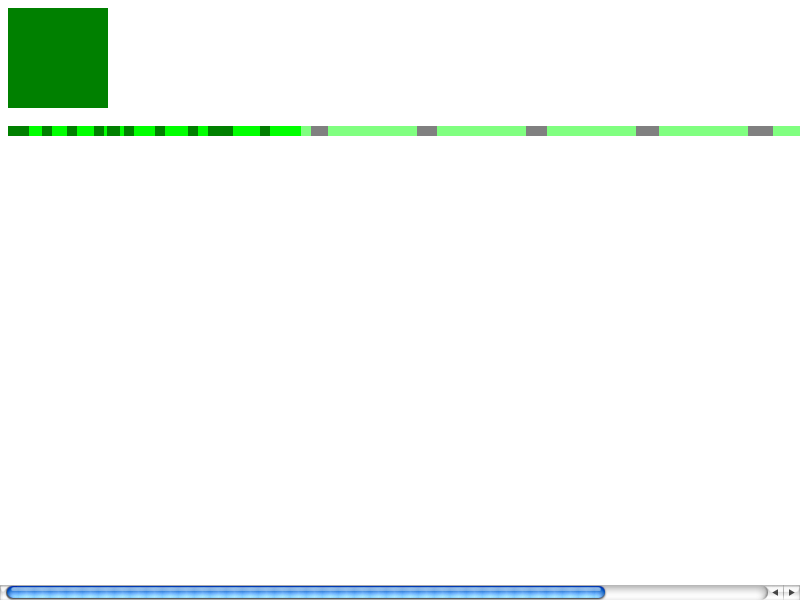
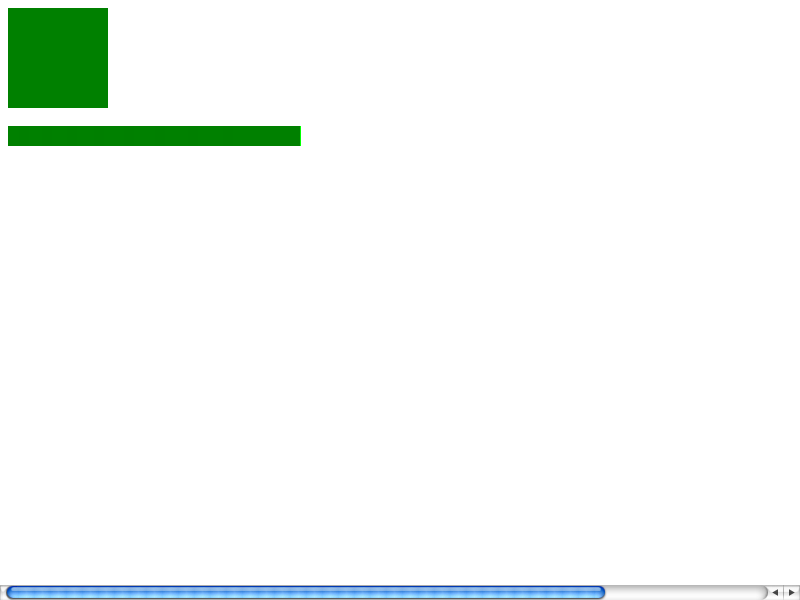
2007-04-27  Mitz Pettel  <mitz@webkit.org>
Reviewed by Antti.

        - http://bugs.webkit.org/show_bug.cgi?id=13521
          Update fast/css/percentage-non-integer for the new empty table cell behavior

        * fast/css/percentage-non-integer-expected.checksum:
        * fast/css/percentage-non-integer-expected.png:
        * fast/css/percentage-non-integer-expected.txt:
        * fast/css/percentage-non-integer.html:

git-svn-id: https://svn.webkit.org/repository/webkit/trunk@21163 268f45cc-cd09-0410-ab3c-d52691b4dbfc

Changed region(s): [[0.0, 0.21, 1.0, 0.27]]

diff --git a/LayoutTests/fast/css/percentage-non-integer.html b/LayoutTests/fast/css/percentage-non-integer.html
@@ -41,7 +41,7 @@
     <br>
     <div style="position: relative;">
         <table style="position: absolute; top: 0; left: 0; " cellpadding="0" cellspacing="0">
-            <tr style="height: 10px;">
+            <tr style="height: 20px;">
                 <td class="red" style="width: 11px;"></td>
                 <td class="black sep"></td>
                 <td class="red" style="width: 13px;"></td>
@@ -65,27 +65,27 @@
             </tr>
         </table>
         <table style="position: absolute; top: 0; left: 0; width: 1000px;" cellpadding="0" cellspacing="0">
-            <tr style="height: 10px;">
-                <td class="blackOverlay" style="width: 1.2%;"></td>
+            <tr style="height: 20px;">
+                <td class="blackOverlay" style="width: 1.2%;">&nbsp;</td>
+                <td class="greenOverlay sep">&nbsp;</td>
+                <td class="blackOverlay" style="width: 1.4%;">&nbsp;</td>
+                <td class="greenOverlay sep">&nbsp;</td>
+                <td class="blackOverlay" style="width: 1.6%;">&nbsp;</td>
+                <td class="greenOverlay sep">&nbsp;</td>
+                <td class="blackOverlay" style="width: 1.8%;">&nbsp;</td>
+                <td class="greenOverlay sep">&nbsp;</td>
+                <td class="blackOverlay" style="width: 2%;">&nbsp;</td>
+                <td class="greenOverlay sep">&nbsp;</td>
+                <td class="blackOverlay" style="width: 2.2%;">&nbsp;</td>
+                <td class="greenOverlay sep">&nbsp;</td>
+                <td class="blackOverlay" style="width: 2.4%;">&nbsp;</td>
                 <td class="greenOverlay sep"></td>
-                <td class="blackOverlay" style="width: 1.4%;"></td>
-                <td class="greenOverlay sep"></td>
-                <td class="blackOverlay" style="width: 1.6%;"></td>
-                <td class="greenOverlay sep"></td>
-                <td class="blackOverlay" style="width: 1.8%;"></td>
-                <td class="greenOverlay sep"></td>
-                <td class="blackOverlay" style="width: 2%;"></td>
-                <td class="greenOverlay sep"></td>
-                <td class="blackOverlay" style="width: 2.2%;"></td>
-                <td class="greenOverlay sep"></td>
-                <td class="blackOverlay" style="width: 2.4%;"></td>
-                <td class="greenOverlay sep"></td>
-                <td class="blackOverlay" style="width: 2.6%;"></td>
-                <td class="greenOverlay sep"></td>
-                <td class="blackOverlay" style="width: 2.8%;"></td>
-                <td class="greenOverlay sep"></td>
-                <td class="blackOverlay" style="width: 3%;"></td>
-                <td></td>
+                <td class="blackOverlay" style="width: 2.6%;">&nbsp;</td>
+                <td class="greenOverlay sep">&nbsp;</td>
+                <td class="blackOverlay" style="width: 2.8%;">&nbsp;</td>
+                <td class="greenOverlay sep">&nbsp;</td>
+                <td class="blackOverlay" style="width: 3%;">&nbsp;</td>
+                <td>&nbsp;</td>
             </tr>
         </table>
     </div>
